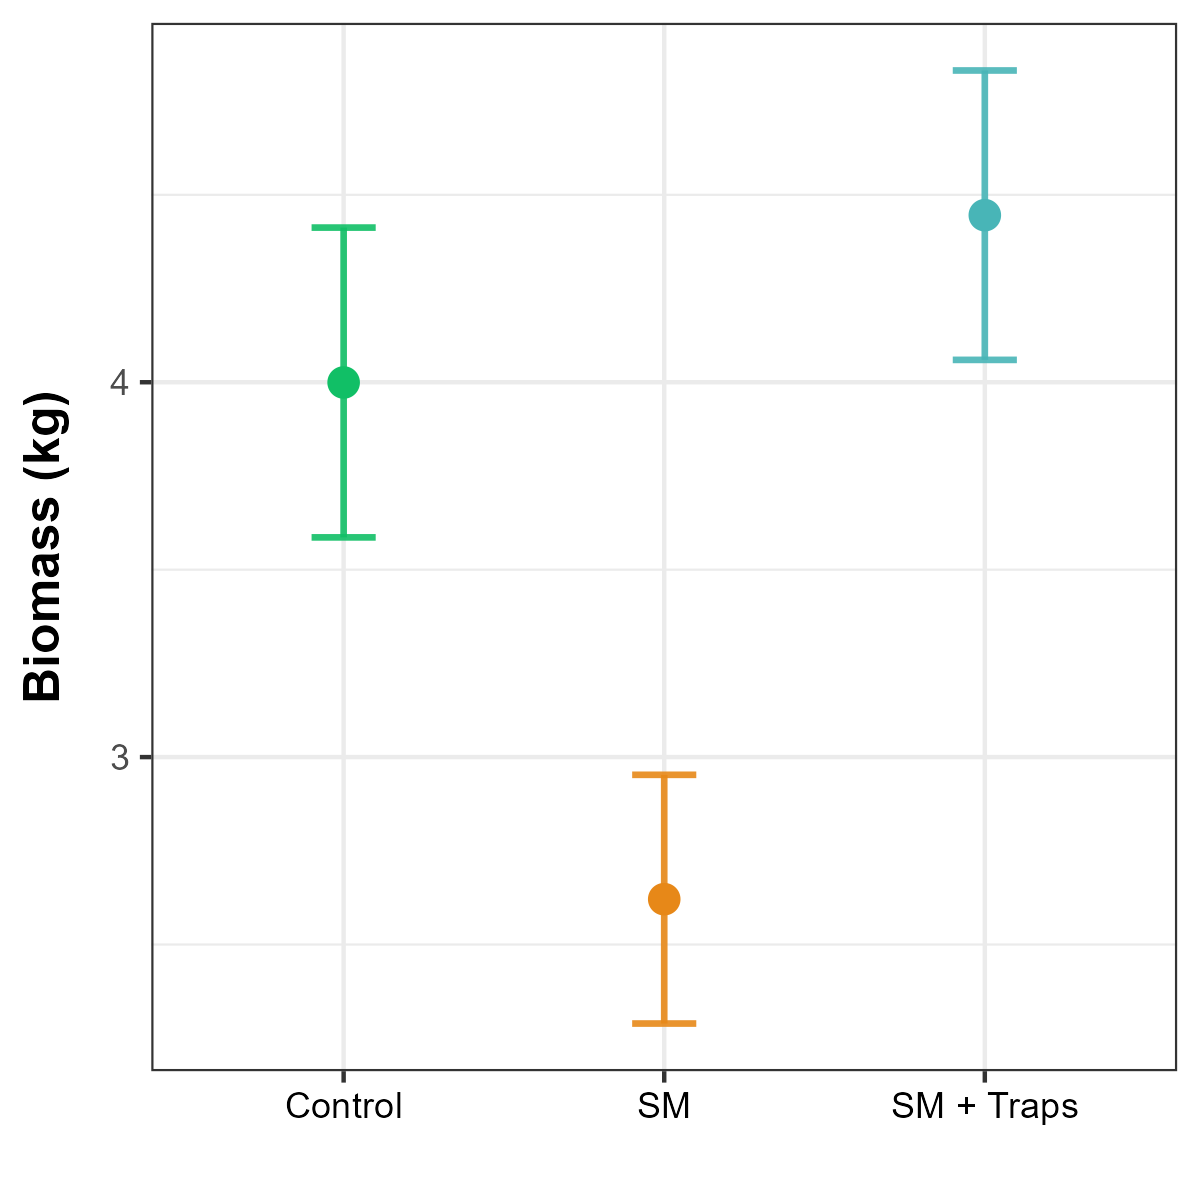
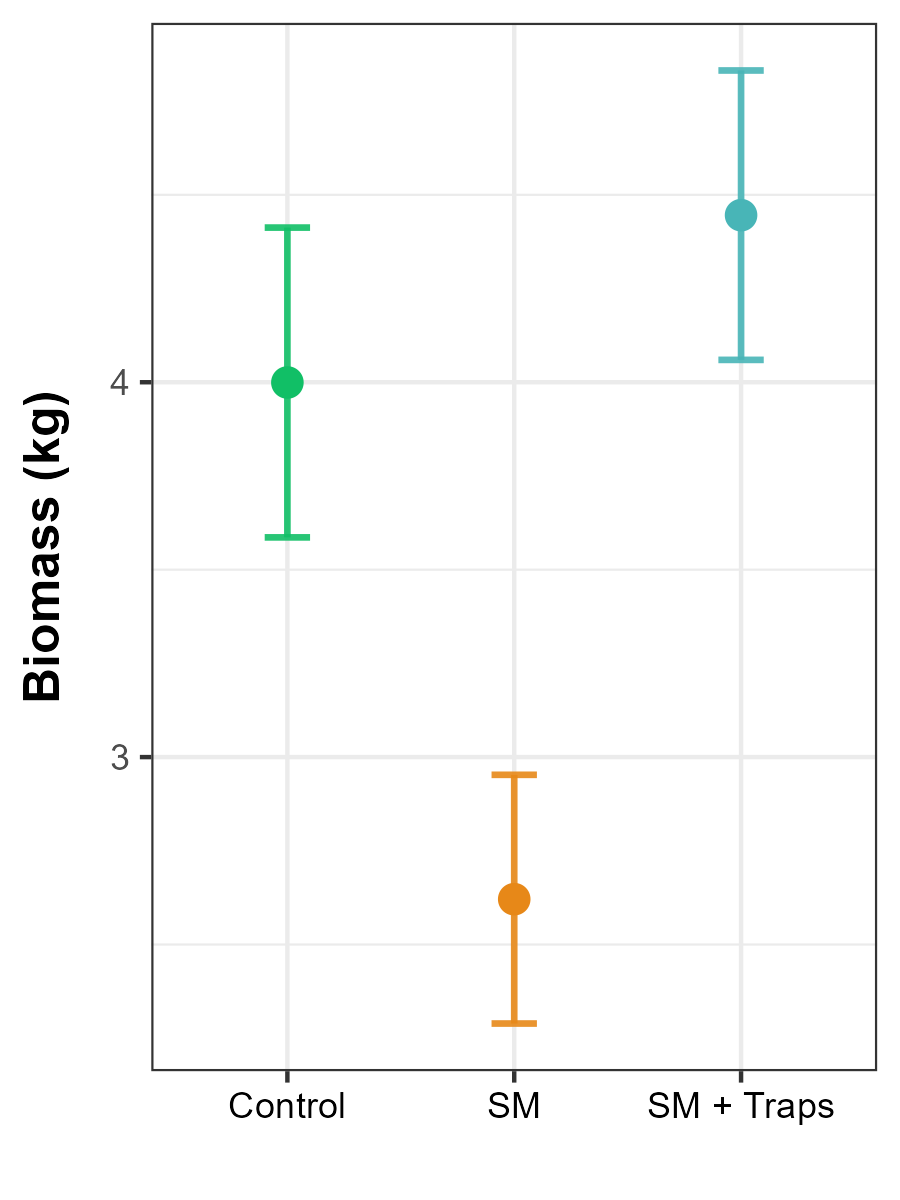
changing dimensions of smaller figures

diff --git a/FishLandings/scripts/Analysis-HouseholdGroups.md b/FishLandings/scripts/Analysis-HouseholdGroups.md
@@ -574,7 +574,7 @@ createPlot <- function(data, y) {
     scale_x_discrete(labels = function(x) str_wrap(x, width = 17)) +
     ylab(y) + xlab("") +
     labs(color = "Household Group")
-  ggsave(file = paste0("household groups/", y, ".png"), width = 4, height = 4, units = c("in"))
+  ggsave(file = paste0("household groups/", y, ".png"), width = 3, height = 4, units = c("in"))
 }
 
 cols <- unique(summary_stats$measurement)
